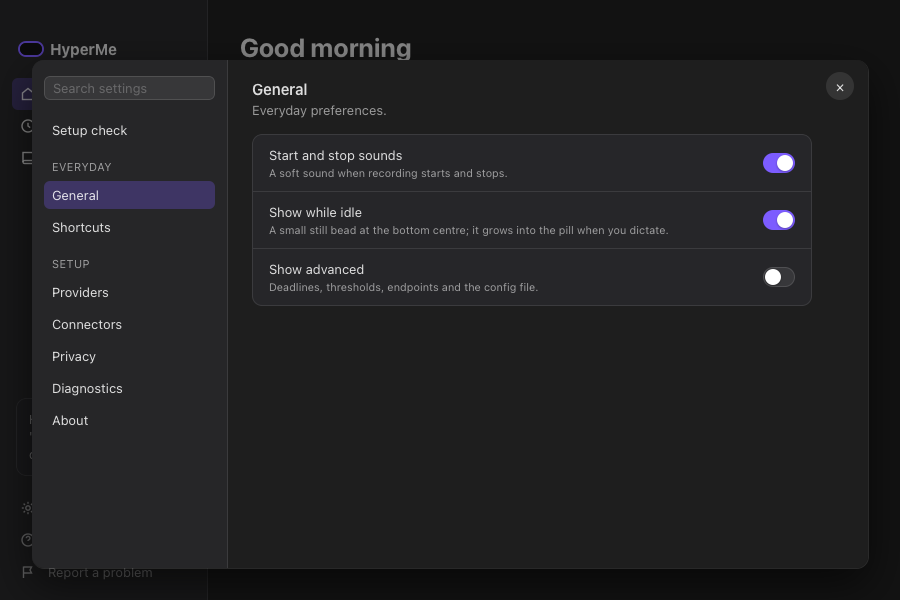
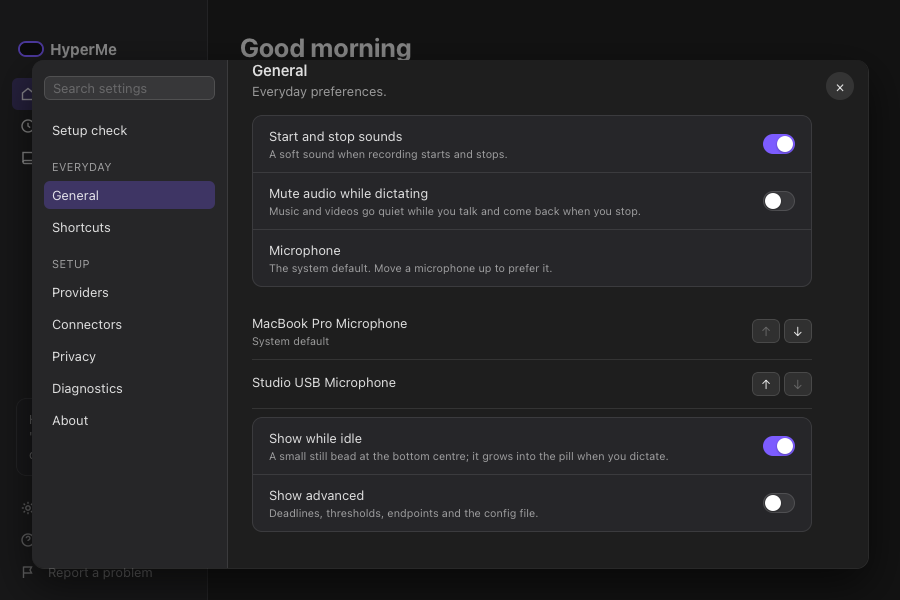
Screenshot checks: microphone fixture and the Settings images after #221
#221 added the microphone order to Settings → General; the fixture lists
two microphones and the approved Settings images show the new rows.

diff --git a/app/ui-tests/mock-tauri.js b/app/ui-tests/mock-tauri.js
@@ -32,6 +32,10 @@
     dictionary_suggested: 2,
     dictionary_view: { entries: [{ written: 'HyperMe', heard: ['hyper me', 'hipermi'] }, { written: 'Tauri', heard: [] }, { written: 'Kubernetes', heard: ['cooper netties'] }], suggestions: [], learning: true, path: '~/Library/Application Support/HyperMe/dictionary.toml' },
     settings_pending: null,
+    microphones_list: { ordered: false, microphones: [
+      { name: 'MacBook Pro Microphone', connected: true, default: true },
+      { name: 'Studio USB Microphone', connected: true, default: false },
+    ] },
     onboarding_checks: { accessibility: true, input_monitoring: false, host_app: null, bundled: true, speech_provider: 'groq', cleanup_provider: 'groq' },
     onboarding_can_continue: true,
     onboarding_keys_screen: { speech: 'Groq', cleanup: 'Groq', free_credit: 'Groq has a free tier.', other_keys: [], choices: [
